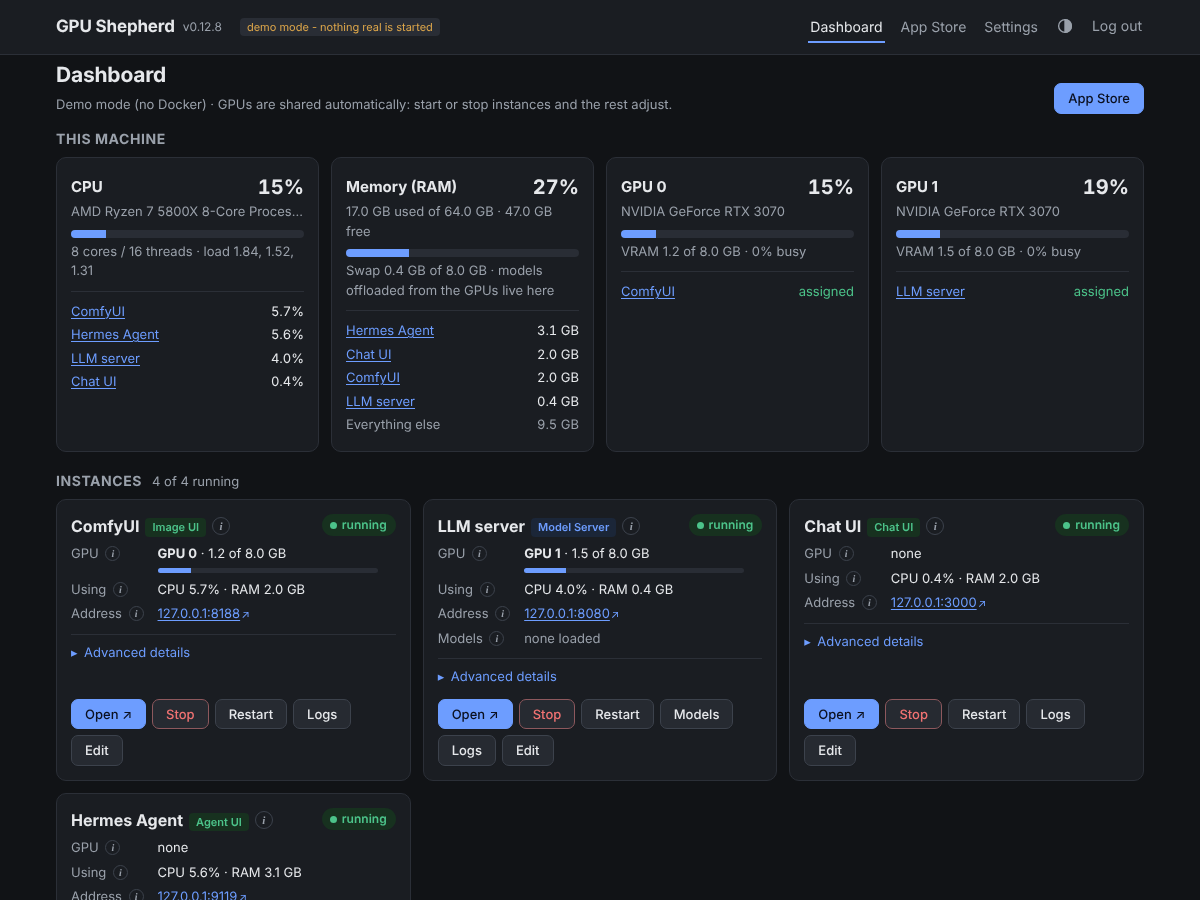
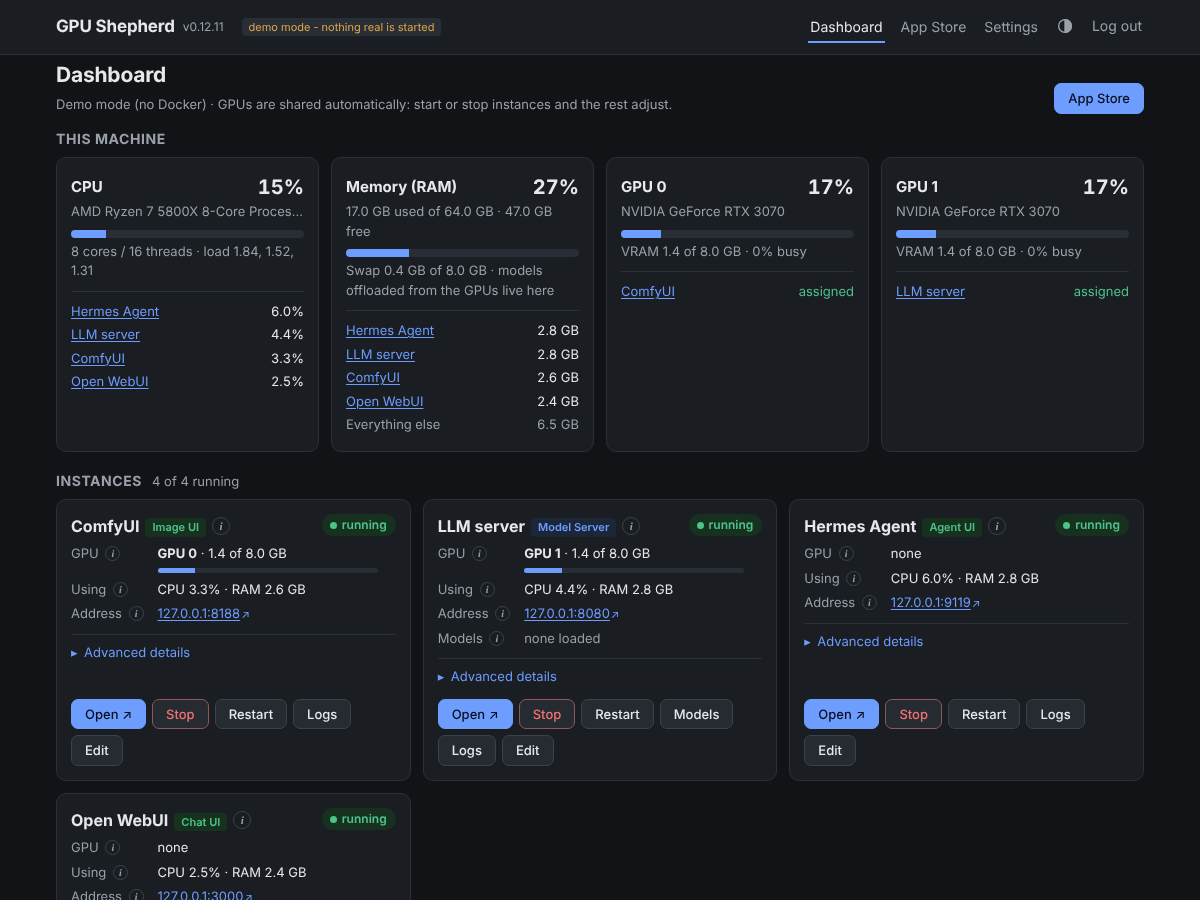
Show Open WebUI by its name instead of "Chat UI"
Open WebUI was installed as "Chat UI" (the App Store default and the starter
preset), which is also its kind tag, so its card read "Chat UI  Chat UI".
New installs are called Open WebUI; older instances whose name only repeats
their app's tag show the app's name, without asking for a restart.

Claude-Session: https://claude.ai/code/session_015NQYcozGp5iKuGUf6q2V3U

diff --git a/gpushepherd/config.py b/gpushepherd/config.py
@@ -21,7 +21,7 @@ from pathlib import Path
 from typing import Literal
 
 import yaml
-from pydantic import BaseModel, Field, ValidationError, field_validator, model_validator
+from pydantic import BaseModel, Field, PrivateAttr, ValidationError, field_validator, model_validator
 
 SLUG = re.compile(r"^[a-z0-9][a-z0-9-]{0,39}$")
 MODEL_ID = re.compile(r"^[A-Za-z0-9][A-Za-z0-9._:-]{0,79}$")
@@ -128,6 +128,9 @@ class Instance(BaseModel):
     drain: DrainPolicy = DrainPolicy()  # wait for running work before stopping
     app: str = ""                     # the App Store app it was installed from, if any
     requires: list[str] = []          # instances that start with it (e.g. its database)
+    # the name in its file when the app shows its App Store name instead (older "Chat UI" names);
+    # restart checks use it, so the better name alone never asks for a restart
+    _file_name: str | None = PrivateAttr(default=None)
 
     @field_validator("id")
     @classmethod
@@ -342,6 +345,15 @@ def friendly_errors(err: ValidationError) -> str:
     return "; ".join(parts)
 
 
+def _named(inst: Instance) -> Instance:
+    """Show an App Store app's real name where its file only says what kind it is ("Chat UI")."""
+    from .instance_templates import app_name   # it builds on this module
+    name = app_name(inst)
+    if name != inst.name:
+        inst._file_name, inst.name = inst.name, name
+    return inst
+
+
 class Store:
     """Reads and writes the YAML files. Stateless: every call goes to disk."""
 
@@ -384,14 +396,14 @@ class Store:
             if inst.id != path.stem:
                 problems.append(f"{path.name}: id '{inst.id}' does not match the file name")
                 continue
-            found[inst.id] = inst
+            found[inst.id] = _named(inst)
         return found, problems
 
     def instance(self, iid: str) -> Instance:
         path = self.instance_path(iid)
         if not path.exists():
             raise ConfigError(f"no instance '{iid}'")
-        return _load(path, Instance)
+        return _named(_load(path, Instance))
 
     def save_instance(self, inst: Instance) -> None:
         others, _ = self.instances()

diff --git a/gpushepherd/instance_templates.py b/gpushepherd/instance_templates.py
@@ -100,7 +100,7 @@ TEMPLATES: tuple[Template, ...] = (
         blurb="A ChatGPT-style web chat for your model servers, with image generation through ComfyUI.",
         points=("No GPU needed", "Connects to a model server for you, API key included",
                 "Optional: make images with ComfyUI"),
-        default_id="webui", default_name="Chat UI", description="Open WebUI",
+        default_id="webui", default_name="Open WebUI", description="Chat with your model servers",
         image="ghcr.io/open-webui/open-webui:main", container_port=8080, host_port=3000, gpu="none",
         env={"ENABLE_OLLAMA_API": "false"},
         appdata=(("data", "/app/backend/data"),), connects="openwebui",
@@ -207,6 +207,23 @@ OTHER_TAG = "App"        # an instance that isn't from the App Store
 def tag_for(inst: Instance) -> str:
     """The kind tag on an instance's dashboard card: from its App Store app, else generic."""
     return next((t.tag for t in TEMPLATES if matches(t, inst)), OTHER_TAG)
+
+
+def app_name(inst: Instance) -> str:
+    """Its name, with the app's real name where it only repeats the kind tag.
+
+    Open WebUI used to be installed as "Chat UI" (then "Chat UI 2"...), which said the same as
+    its tag; those show as "Open WebUI" ("Open WebUI 2"). Any other name is the user's choice.
+    """
+    t = next((t for t in TEMPLATES if matches(t, inst)), None)
+    if t is None or t.title == t.tag:
+        return inst.name
+    if inst.name.casefold() == t.tag.casefold():
+        return t.title
+    head, _, suffix = inst.name.rpartition(" ")
+    if head.casefold() == t.tag.casefold() and suffix == inst.id.rsplit("-", 1)[-1]:
+        return f"{t.title} {suffix}"
+    return inst.name
 
 
 def installed(instances: dict[str, Instance]) -> dict[str, list[Instance]]:

diff --git a/tests/test_app.py b/tests/test_app.py
@@ -10,6 +10,7 @@ from fastapi.testclient import TestClient
 
 import gpushepherd
 import gpushepherd.gpu as gpu_mod
+from gpushepherd import instance_templates as tpl
 from gpushepherd.app import DemoLlamaClient, create_app
 from gpushepherd.backend import FakeBackend
 
@@ -589,6 +590,22 @@ def test_dashboard_kind_tags(stack):
     assert '<span class="tag kind ui">Image UI</span>' in card("comfyui")
     assert '<span class="tag kind ui">Agent UI</span>' in card("hermes")
     assert "model server</span>" not in dash
+
+
+def test_older_chat_ui_name_shows_as_open_webui(stack, monkeypatch):
+    """Open WebUI used to be installed as "Chat UI", the same as its tag: its card says Open WebUI,
+    and the better name alone does not ask for a restart."""
+    app, client, backend, data = stack
+    login(client)
+    assert "name: Chat UI" in (data / "instances" / "webui.yaml").read_text()
+    with monkeypatch.context() as old_version:         # started before names were fixed up
+        old_version.setattr(tpl, "app_name", lambda inst: inst.name)
+        act(client, app, "webui", "start")
+    dash = client.get("/ui/dashboard", headers=HX).text
+    card = dash.split('id="inst-webui"')[1].split("</article>")[0]
+    assert '<h2>Open WebUI<span class="tag kind ui">Chat UI</span>' in card
+    assert "not applied" not in card
+    assert client.get("/instances/webui/edit").text.count('value="Open WebUI"') == 1
 
 
 def test_librechat_installs_its_database_and_starts_with_it(stack):

diff --git a/tests/test_instance_templates.py b/tests/test_instance_templates.py
@@ -222,3 +222,14 @@ def test_anythingllm():
     assert "LLM_PROVIDER='generic-openai'" in env and "GENERIC_OPEN_AI_BASE_PATH='http://llm:8080/v1'" in env
     assert "GENERIC_OPEN_AI_API_KEY='sk-abc'" in env and "GENERIC_OPEN_AI_MODEL_TOKEN_LIMIT='32768'" in env
     assert "LLM_PROVIDER" not in tpl.seed_files(t, f | {"server": ""}, m)["server.env"]
+
+
+def test_app_name_replaces_a_name_that_only_repeats_the_tag():
+    webui = lambda iid, name: Instance(id=iid, name=name, image="ghcr.io/open-webui/open-webui:main")
+    assert tpl.app_name(webui("webui", "Chat UI")) == "Open WebUI"
+    assert tpl.app_name(webui("webui-2", "Chat UI 2")) == "Open WebUI 2"
+    assert tpl.app_name(webui("family", "Family chat")) == "Family chat"     # the user's own name
+    assert tpl.app_name(webui("webui", "Chat UI 2")) == "Chat UI 2"
+    assert tpl.app_name(Instance(id="x", name="App", image="nginx")) == "App"
+    assert tpl.app_name(Instance(id="h", name="Agent UI", image="x", app="hermes")) == "Hermes Agent"
+    assert all(t.default_name != t.tag for t in tpl.TEMPLATES)

diff --git a/gpushepherd/engine.py b/gpushepherd/engine.py
@@ -53,6 +53,8 @@ class Engine:
         # the drain policy, the app it came from and what starts with it only matter to GPU Shepherd:
         # no restart for those
         data = inst.model_dump(mode="json", exclude={"drain", "app", "requires"})
+        if inst._file_name is not None:            # renamed only on screen (see config._named)
+            data["name"] = inst._file_name
         if inst.kind == "llama-swap":
             data["_catalog"] = self.store.catalog(inst.id).model_dump(mode="json")
         return hashlib.sha256(json.dumps(data, sort_keys=True).encode()).hexdigest()[:12]

diff --git a/README.md b/README.md
@@ -29,8 +29,9 @@ each instance says what it needs, and starting or stopping anything re-plans who
 
   ![App Store](docs/screenshots/app-store.png)
 - **Instances**: any Docker image - ports, folders, environment, command, autostart - edited in
-  forms. One compact card per instance with Start / Stop / Restart / Open / Logs, a tag saying
-  what it is (*Model Server*, *Chat UI*, *Image UI*, *Agent UI*, *Database*, or *App* for any other image), its
+  forms. One compact card per instance with Start / Stop / Restart / Open / Logs, its name (Open
+  WebUI, ComfyUI...) and a tag saying what it is (*Model Server*, *Chat UI*, *Image UI*, *Agent UI*,
+  *Database*, or *App* for any other image), its
   state, GPUs and VRAM, CPU and RAM use, web addresses and (for model servers) the loaded model.
   **Advanced details** opens the image, folders, command and the rest. Every detail has a small ⓘ
   next to it: hover, tab to or tap it to see what the value means (GPU rule and priority, ports,

diff --git a/docs/advanced.md b/docs/advanced.md
@@ -22,7 +22,7 @@ gpu.mode=elastic`, `gpu-shepherd models set <server> <model> ctx_size=65536` and
 
 | Field | YAML | What it does |
 |---|---|---|
-| Name | `name` | Shown on the dashboard. |
+| Name | `name` | Shown on the dashboard. A name that only repeats the app's tag, like `Chat UI` (what older versions called Open WebUI), shows as the app's name (*Open WebUI*); saving the instance writes that name to its file. |
 | ID | `id` | Lowercase letters, digits and dashes, at most 40. Names the file and the container (`shepherd-<id>`), and is the host name other instances use to reach it (`http://<id>:<port>`). Can't be changed after creation. |
 | Image | `image` | Any Docker image, e.g. `ghcr.io/org/app:tag`. Pulled when the instance starts. |
 | Description | `description` | Free text. |
